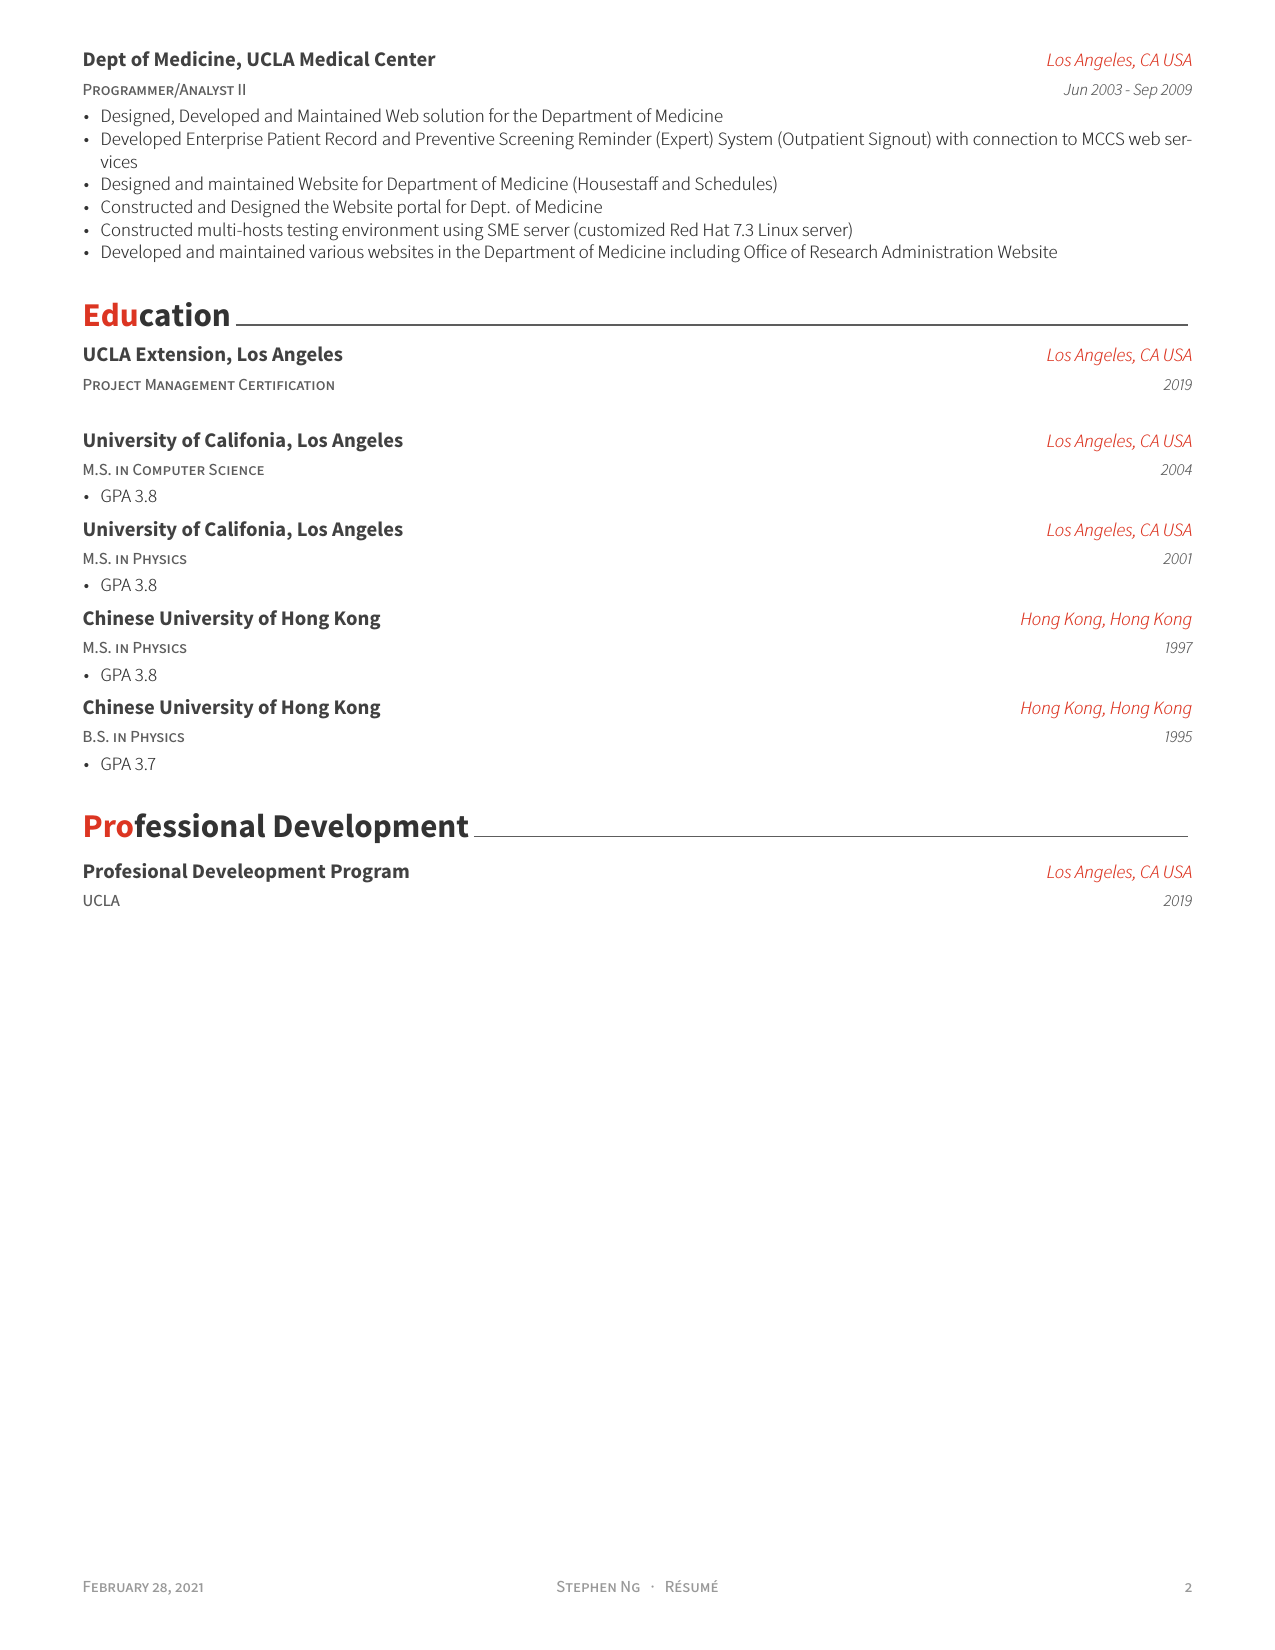
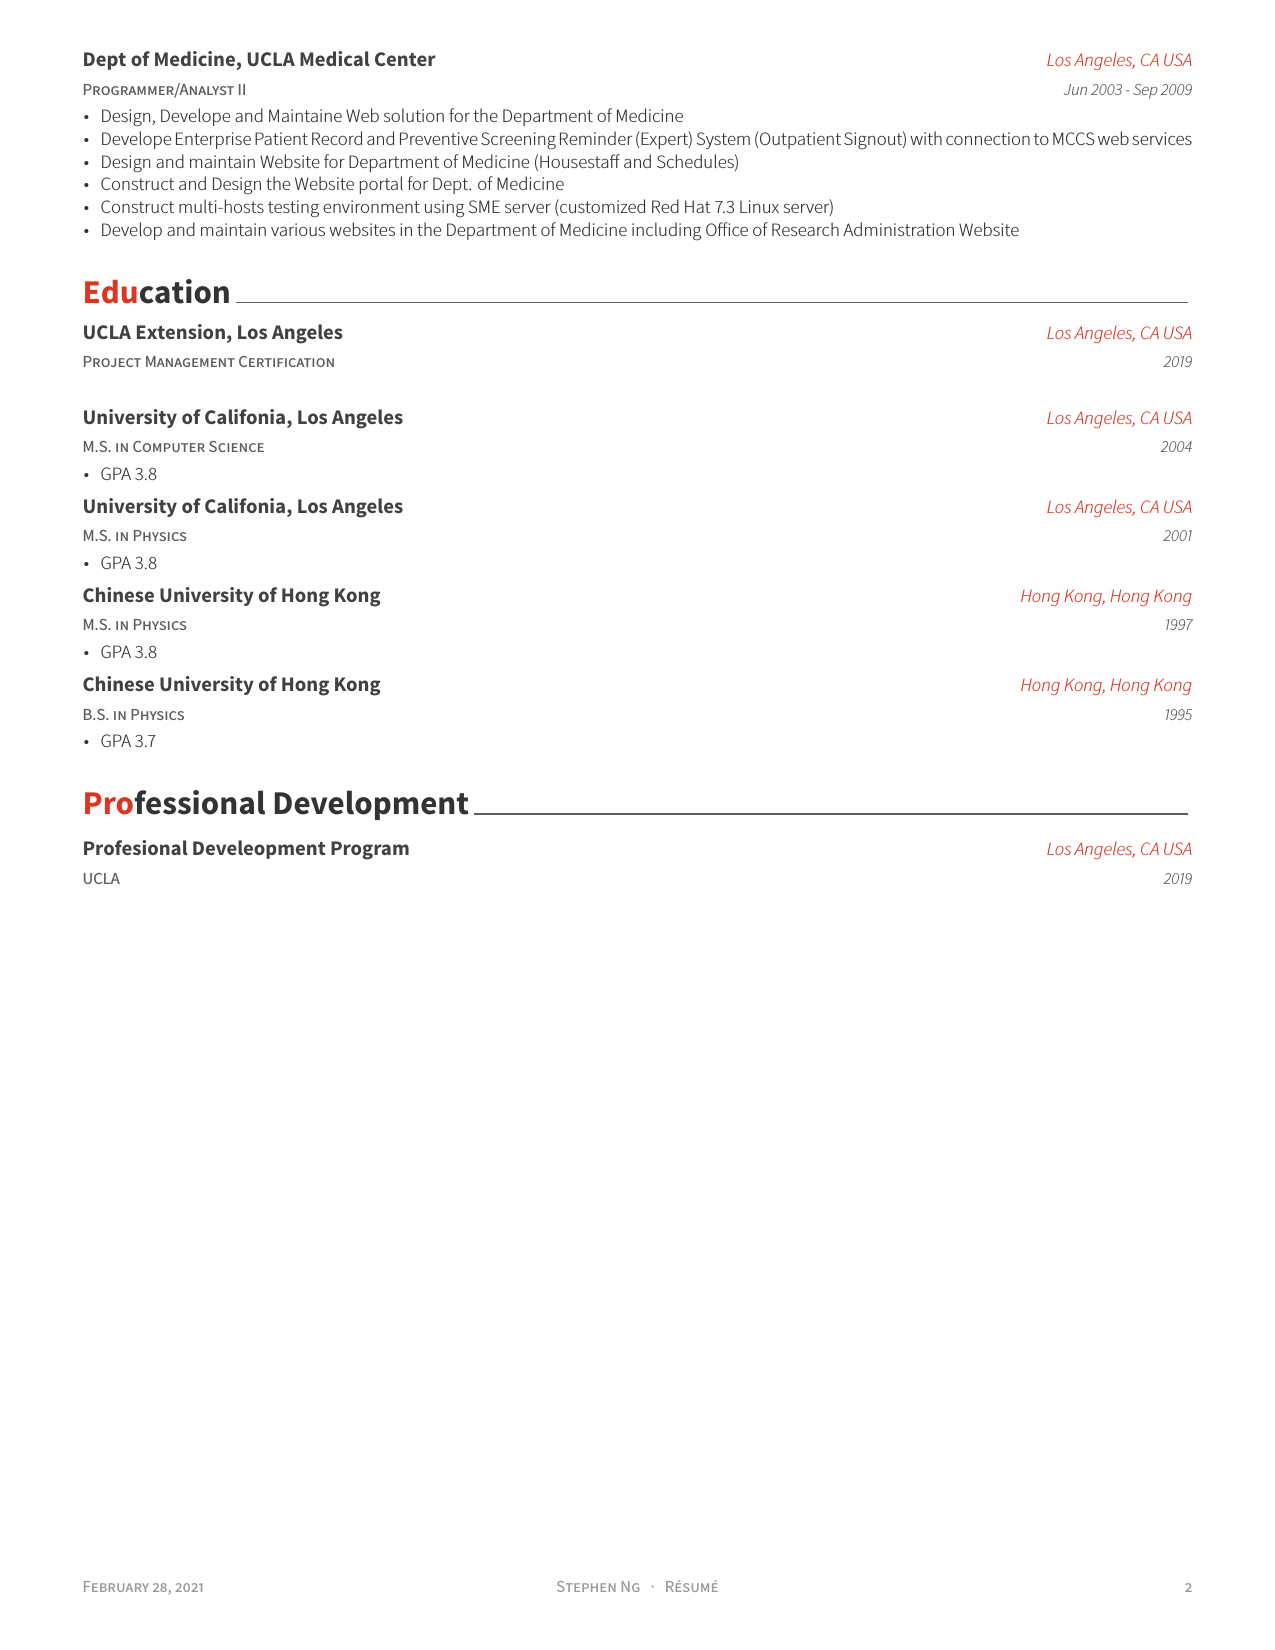
improve PA II entity

diff --git a/myresume/resume/experience.tex b/myresume/resume/experience.tex
@@ -76,12 +76,12 @@
     {Jun 2003 - Sep 2009} % Date(s)
     {
       \begin{cvitems} % Description(s) of tasks/responsibilities
-        \item {Designed, Developed and Maintained Web solution for the Department of Medicine}
-		 \item {Developed Enterprise Patient Record and Preventive Screening Reminder (Expert) System (Outpatient Signout) with connection to MCCS web services}
-		  \item {Designed and maintained Website for Department of Medicine (Housestaff and Schedules)}
-		  \item {Constructed and Designed the Website portal for Dept. of Medicine}
-		   \item {Constructed multi-hosts testing environment using SME server (customized Red Hat 7.3 Linux server)}
-		   \item {Developed and maintained various websites in the Department of Medicine including Office of Research Administration Website}
+        \item {Design, Develope and Maintaine Web solution for the Department of Medicine}
+		 \item {Develope Enterprise Patient Record and Preventive Screening Reminder (Expert) System (Outpatient Signout) with connection to MCCS web services}
+		  \item {Design and maintain Website for Department of Medicine (Housestaff and Schedules)}
+		  \item {Construct and Design the Website portal for Dept. of Medicine}
+		   \item {Construct multi-hosts testing environment using SME server (customized Red Hat 7.3 Linux server)}
+		   \item {Develop and maintain various websites in the Department of Medicine including Office of Research Administration Website}
       \end{cvitems}
     }
 
